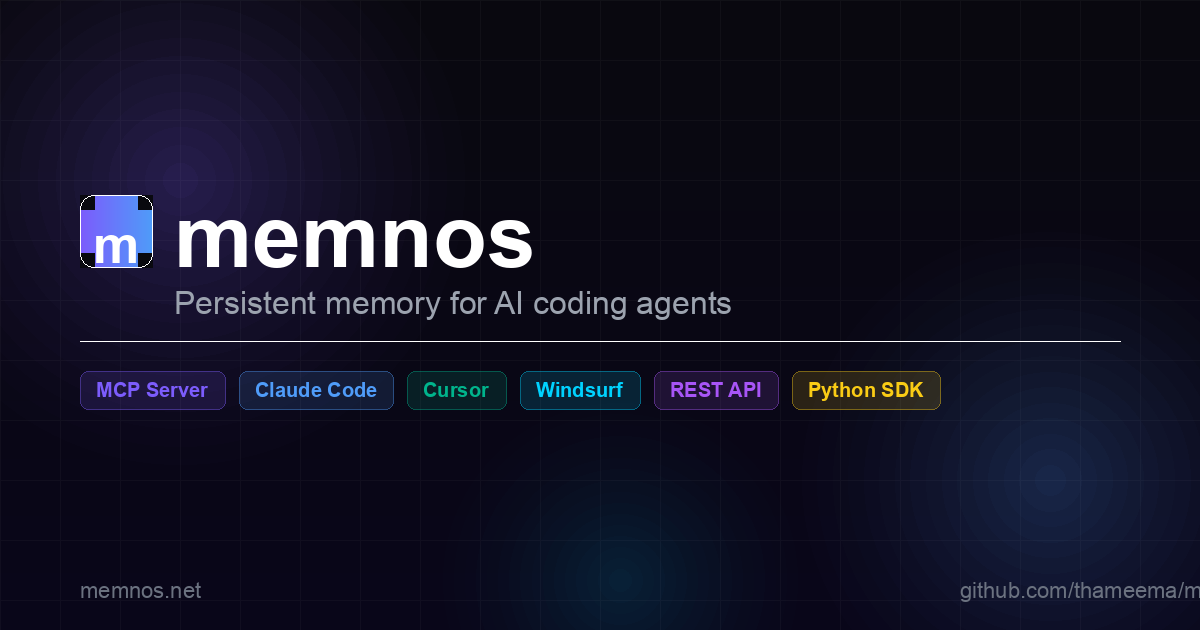
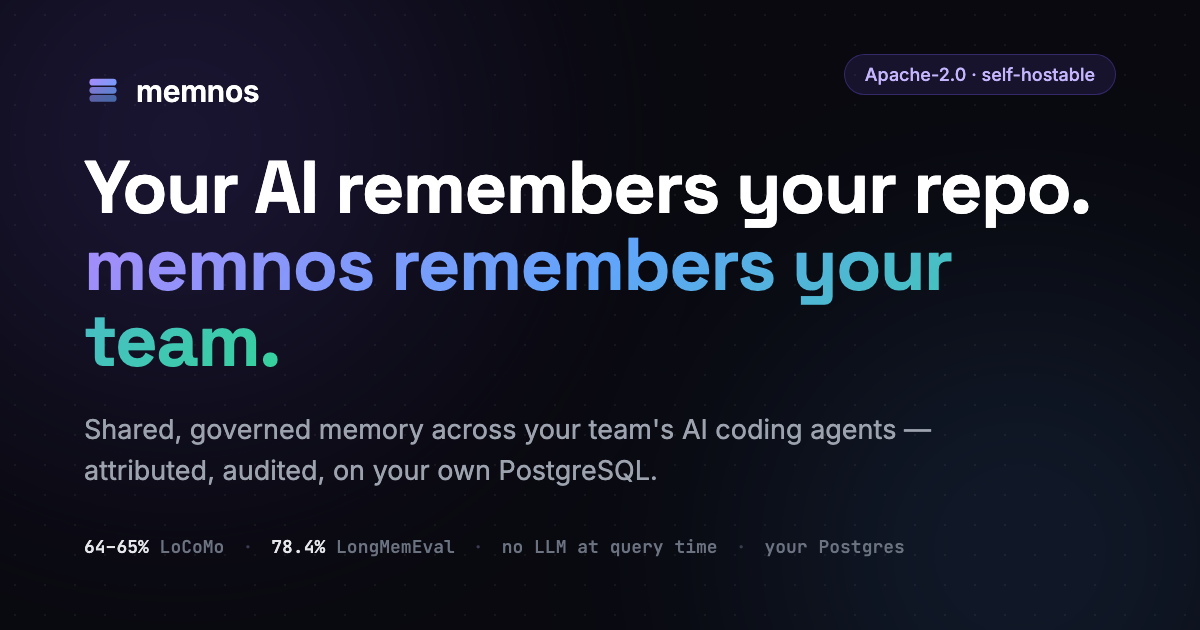
site: LongMemEval proof point, refreshed og-image, generic tagline
- Homepage proof strip now cites 78.4% on LongMemEval (500q, gpt-4o judge,
  predictions published) alongside the 64-65% LoCoMo band.
- New og-image.png (1200x630) reflecting the current hero + proof numbers.
- Propagate the generic tagline "Your AI remembers your repo. memnos
  remembers your team." into README, docs/team-memory.md and the team guide
  (matches the live site hero; factual CLAUDE.md file references kept).

diff --git a/docs/index.html b/docs/index.html
@@ -287,7 +287,7 @@
 <section class="relative z-10 py-6 fade-in">
   <div class="max-w-6xl mx-auto px-6">
     <div class="glass rounded-2xl px-8 py-4 text-center">
-      <p class="text-sm text-gray-300 leading-relaxed"><span class="text-white font-semibold">64–65%</span> on full LoCoMo across three independent ingests — every prediction published <span class="text-gray-600">·</span> No LLM at query time <span class="text-gray-600">·</span> Apache-2.0, full engine source <span class="text-gray-600">·</span> Runs on PostgreSQL.</p>
+      <p class="text-sm text-gray-300 leading-relaxed"><span class="text-white font-semibold">64–65%</span> on full LoCoMo (three independent ingests) <span class="text-gray-600">·</span> <span class="text-white font-semibold">78.4%</span> on LongMemEval (500q, gpt-4o judge, predictions published) <span class="text-gray-600">·</span> No LLM at query time <span class="text-gray-600">·</span> Apache-2.0 <span class="text-gray-600">·</span> Runs on PostgreSQL.</p>
     </div>
   </div>
 </section>

diff --git a/README.md b/README.md
@@ -27,7 +27,7 @@ old one, bi-temporal supersession closes the old fact out, and recall shows the 
 
 ---
 
-## CLAUDE.md remembers your repo. memnos remembers your team.
+## Your AI remembers your repo. memnos remembers your team.
 
 CLAUDE.md, Cursor rules, native model memory — all genuinely useful, and all the same
 shape: **local and per-developer.** They sit on one machine, scoped to one repo or one

diff --git a/docs/guides/team.md b/docs/guides/team.md
@@ -3,7 +3,7 @@
 How an engineering team stands up **one shared memnos** and wires each developer's agent
 to it, so the whole team's agents read and write a common, governed memory.
 
-> CLAUDE.md remembers your repo. memnos remembers your team. See
+> Your AI remembers your repo. memnos remembers your team. See
 > [`docs/team-memory.md`](../team-memory.md) for the why.
 
 ---

diff --git a/docs/team-memory.md b/docs/team-memory.md
@@ -1,4 +1,4 @@
-# CLAUDE.md remembers your repo. memnos remembers your team.
+# Your AI remembers your repo. memnos remembers your team.
 
 ## The problem: memory is local and per-developer
 
